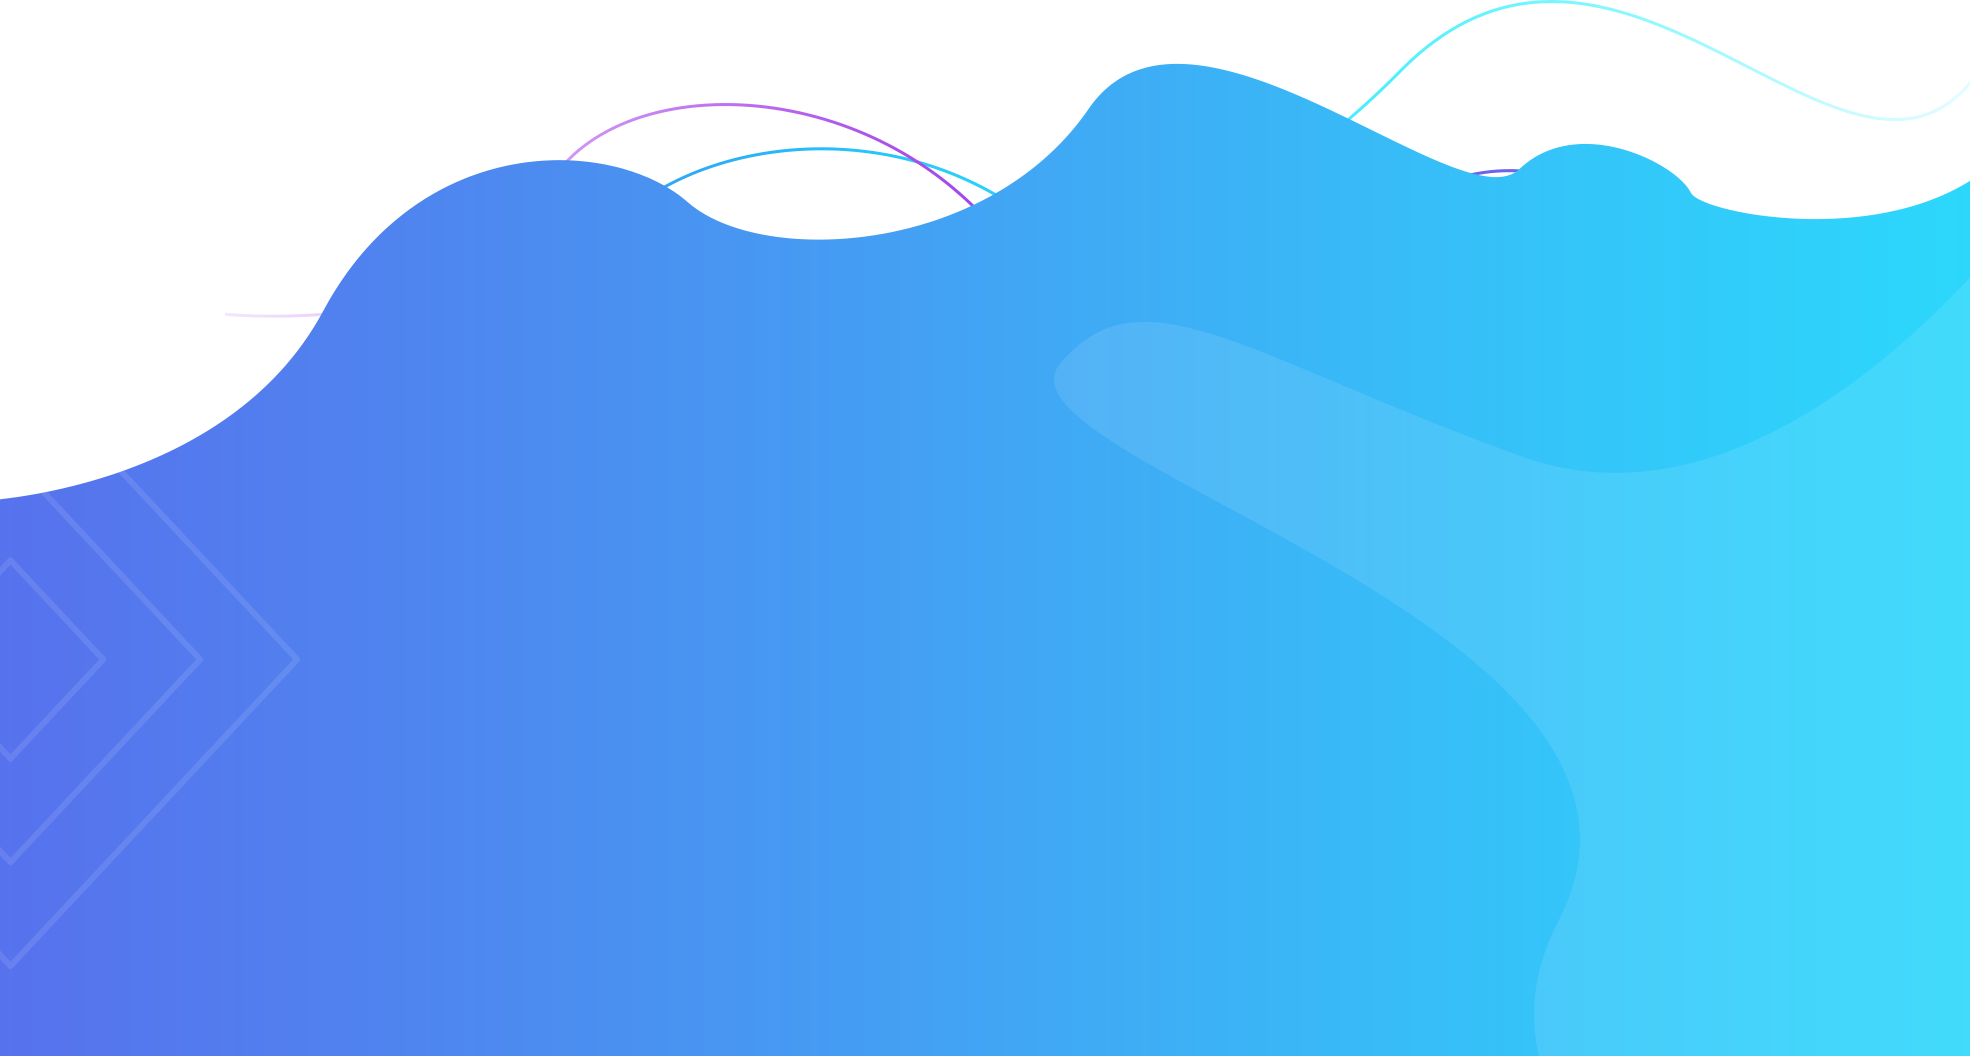
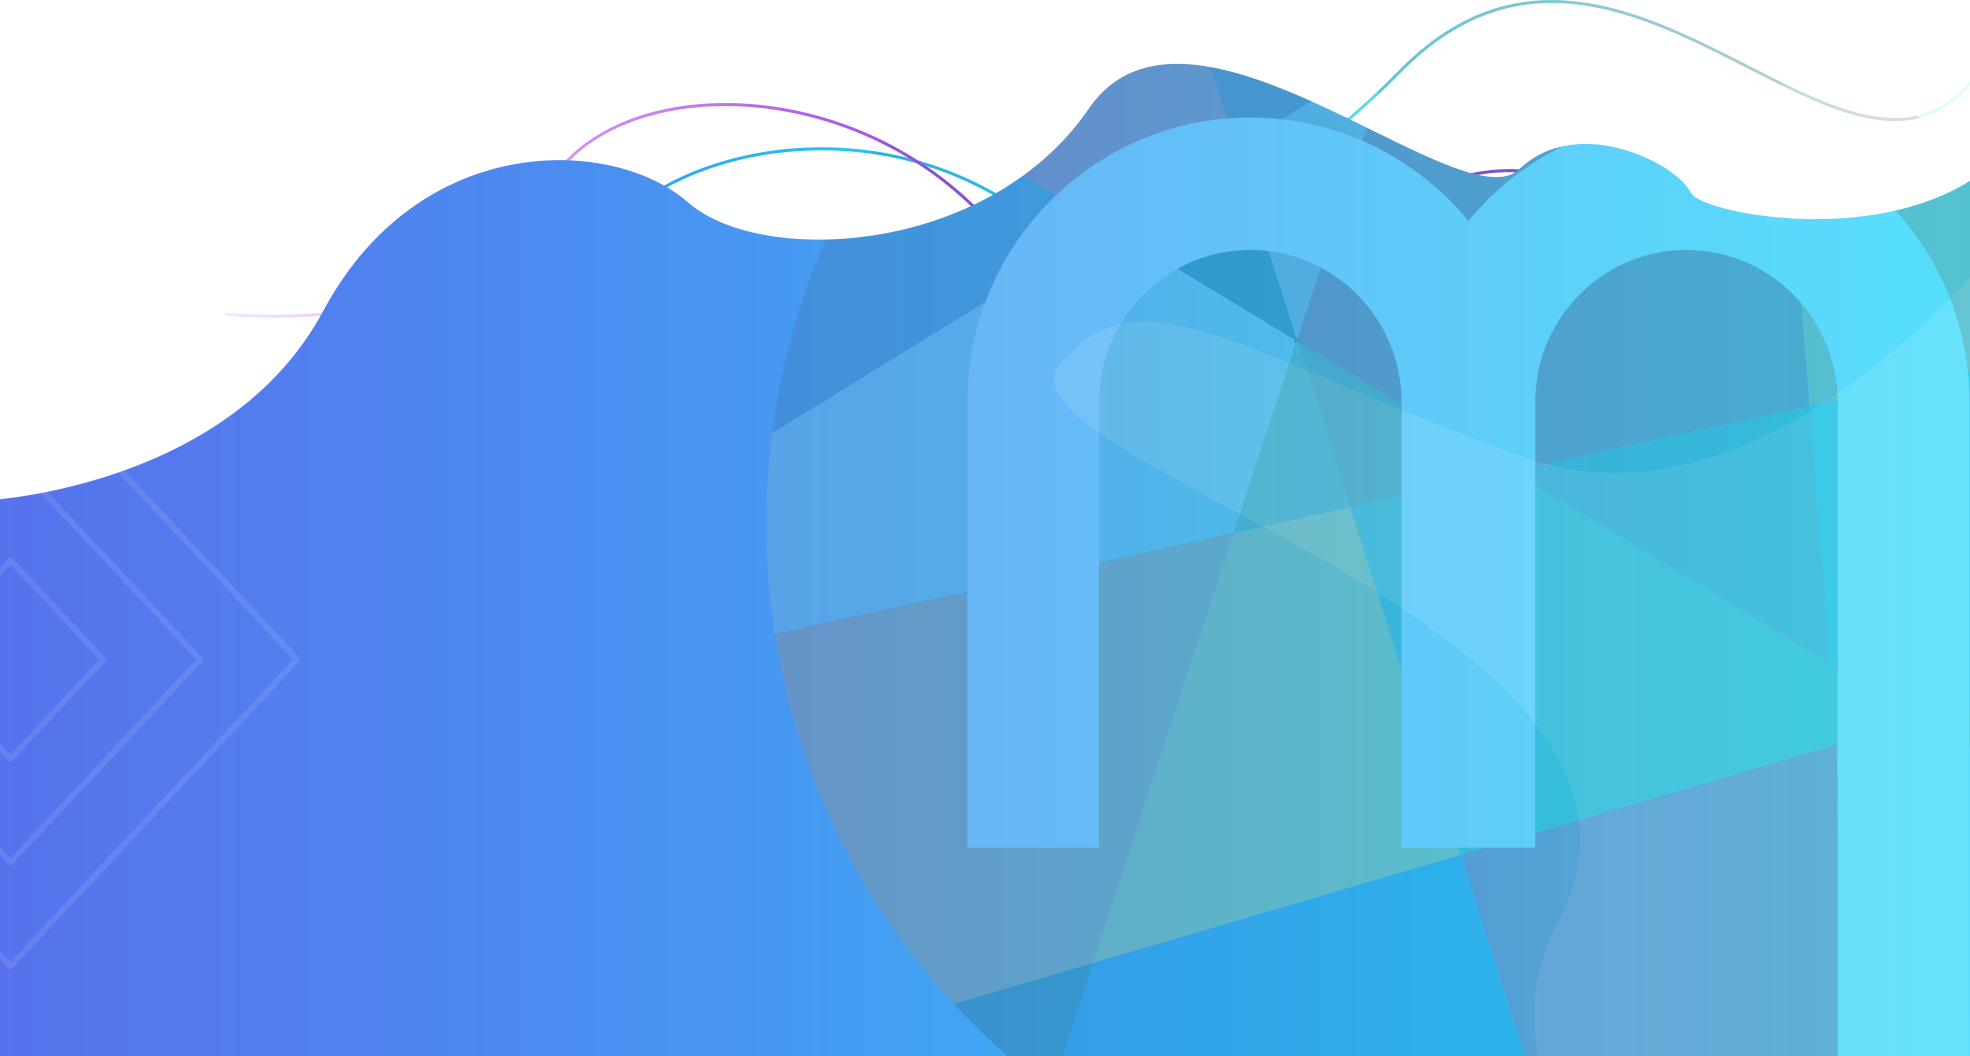
Certificate template added & modify some style

diff --git a/public/frontend/assets/css/templatemo-chain-app-dev.css b/public/frontend/assets/css/templatemo-chain-app-dev.css
@@ -917,13 +917,14 @@ Banner Style
 }
 
 .main-banner .left-content h2 {
-  z-index: 2;
-  position: relative;
-  font-weight: 700;
-  line-height: 70px;
-  font-size: 50px;
-  margin-bottom: 20px;
-  color: #fff;
+    z-index: 2;
+    position: relative;
+    font-weight: 700;
+    line-height: 70px;
+    font-size: 100px;
+    margin-bottom: 20px;
+    color: #fff;
+    line-height: 90px;
 }
 
 .main-banner .left-content p {
@@ -952,8 +953,8 @@ Banner Style
 }
 
 .main-banner .left-content .white-button a {
-  background-color: #f36f21;;
-  color: #fff !important;
+    background-color: #e8b90e;
+    color: #fff !important;
 }
 
 /*

diff --git a/resources/views/admin/mail/certificate.blade.php b/resources/views/admin/mail/certificate.blade.php
@@ -1,0 +1,190 @@
+<!DOCTYPE html>
+<html>
+  <head>
+    <meta charset="UTF-8" />
+    <meta name="viewport" content="width=device-width, initial-scale=1.0" />
+    <title>Account Information Update</title>
+    <style>
+      @import url("https://fonts.googleapis.com/css2?family=Great+Vibes&family=Montserrat:wght@200;400;500;700&display=swap");
+
+      body {
+        font-family: "Open Sans", sans-serif;
+        font-size: 16px;
+        line-height: 1.4;
+        color: #333333;
+
+        padding: 0;
+        margin: 0;
+      }
+
+      .container {
+        max-width: 1056px;
+        margin: 0 auto;
+        padding: 20px;
+        background-color: #ffffff;
+        box-shadow: 0 2px 8px rgba(0, 0, 0, 0.05);
+        border-radius: 5px;
+        background-image: linear-gradient(
+            rgb(255, 255, 255, 0.8),
+            rgb(255, 255, 255, 0.8)
+          ),
+          url("https://bbf.digital/marketing-olympiad/public/frontend/new/assets/images/logo.png");
+        background-repeat: no-repeat;
+        background-size: calc(130%);
+        background-position: left center;
+        background-color: rgba(255, 255, 255, 0.95);
+      }
+
+      img {
+        display: block;
+        margin-left: auto;
+        margin-right: auto;
+        width: 15%;
+      }
+
+      h1 {
+        font-size: 60px;
+        margin-top: 0;
+        margin-bottom: 20px;
+        text-align: center;
+        color: #000000;
+      }
+
+      p {
+        margin: 0 0 20px;
+        text-align: justify;
+      }
+
+      .button {
+        display: inline-block;
+        padding: 10px 20px;
+        font-size: 16px;
+        font-weight: bold;
+        text-decoration: none;
+        color: #ffffff;
+        background-color: #0085ff;
+        border-radius: 5px;
+        transition: background-color 0.3s ease;
+      }
+
+      .button:hover {
+        background-color: #0071d1;
+      }
+
+      .details {
+        margin-bottom: 20px;
+        padding: 20px;
+        background-color: #f5f5f58f;
+        border-radius: 5px;
+      }
+
+      .center {
+        text-align: center;
+      }
+
+      .details ul {
+        margin: 0;
+        padding: 0;
+        list-style-type: none;
+      }
+
+      .details li {
+        margin: 0 0 10px;
+        padding: 0;
+        font-weight: bold;
+      }
+
+      .details li span {
+        font-weight: normal;
+      }
+    </style>
+  </head>
+
+  <body>
+    <div class="container">
+      <img
+        src="https://bbf.digital/marketing-olympiad/public/storage/logo/logo.png"
+        alt=""
+      />
+      <h1 style="font-family: 'Great Vibes', cursive; font-weight: 400">
+        Certificate Of Participation
+      </h1>
+      <div style="line-height: 20px">
+        <h3
+          style="
+            font-family: 'Montserrat', sans-serif;
+            font-weight: 200;
+            font-size: 30px;
+          "
+          class="center"
+        >
+          This certificate is awarded to
+        </h3>
+        <h3
+          style="
+            font-family: 'Montserrat', sans-serif;
+            font-weight: 500;
+            font-size: 30px;
+            text-transform: uppercase;
+          "
+          class="center"
+        >
+          Name Of The Person
+        </h3>
+        <h3
+          style="
+            font-family: 'Montserrat', sans-serif;
+            font-weight: 200;
+            font-size: 30px;
+          "
+          class="center"
+        >
+          for participating in the
+        </h3>
+        <h3
+          style="
+            font-family: 'Montserrat', sans-serif;
+            font-weight: 400;
+            font-size: 30px;
+          "
+          class="center"
+        >
+          MARKETING OLYMPIAD
+        </h3>
+      </div>
+      <img
+        style="
+          display: block;
+          margin-left: auto;
+          margin-right: auto;
+          width: 100px;
+        "
+        src="https://bbf.digital/marketing-olympiad/public/storage/logo/signeture.png"
+        alt=""
+      />
+      <div style="line-height: 0px">
+        <h1 style="font-size: 14px">SHARIFUL ISLAM</h1>
+        <h4 style="
+            font-family: 'Montserrat', sans-serif;
+            font-weight: 400;
+            font-size: 15px;
+          " class="center">FOUNDER & MANAGING DIRECTOR</h4>
+        <h4 style="
+            font-family: 'Montserrat', sans-serif;
+            font-weight: 400;
+            font-size: 15px;
+          " class="center">BANGLADESH BRAND FORUM</h4>
+      </div>
+      <img
+        style="
+          display: block;
+          margin-left: auto;
+          margin-right: auto;
+          width: 300px;
+        "
+        src="https://bbf.digital/marketing-olympiad/public/storage/logo/logo_panel.png"
+        alt=""
+      />
+    </div>
+  </body>
+</html>

diff --git a/resources/views/frontend/pages/index.blade.php b/resources/views/frontend/pages/index.blade.php
@@ -297,7 +297,7 @@ https://templatemo.com/tm-570-chain-app-dev
                                     <div class="col-lg-12">
                                         <h2 class="text-uppercase">Marketing OLympiad</h2>
                                         <!-- <marquee behavior="scroll" direction="left" width="50%" height="20%"><p class="text-uppercase text-white">Marketing OLympiad</p></marquee> -->
-                                        <p>Marketing OLympiad Tagline</p>
+                                        {{-- <p>Marketing OLympiad Tagline</p> --}}
                                     </div>
                                     <div class="col-lg-12">
                                         <div class="white-button scroll-to-section">
@@ -313,7 +313,7 @@ https://templatemo.com/tm-570-chain-app-dev
                         <div class="col-lg-6">
                             <div class="right-image wow fadeInRight ms-5" data-wow-duration="1s"
                                 data-wow-delay="0.5s">
-                                <img src="{{ asset('frontend/assets/images/slider-dec.png') }}" alt="">
+                                <img src="https://bbf.digital/marketing-olympiad/public/frontend/new/assets/images/logo.png" alt="">
                             </div>
                         </div>
                     </div>
